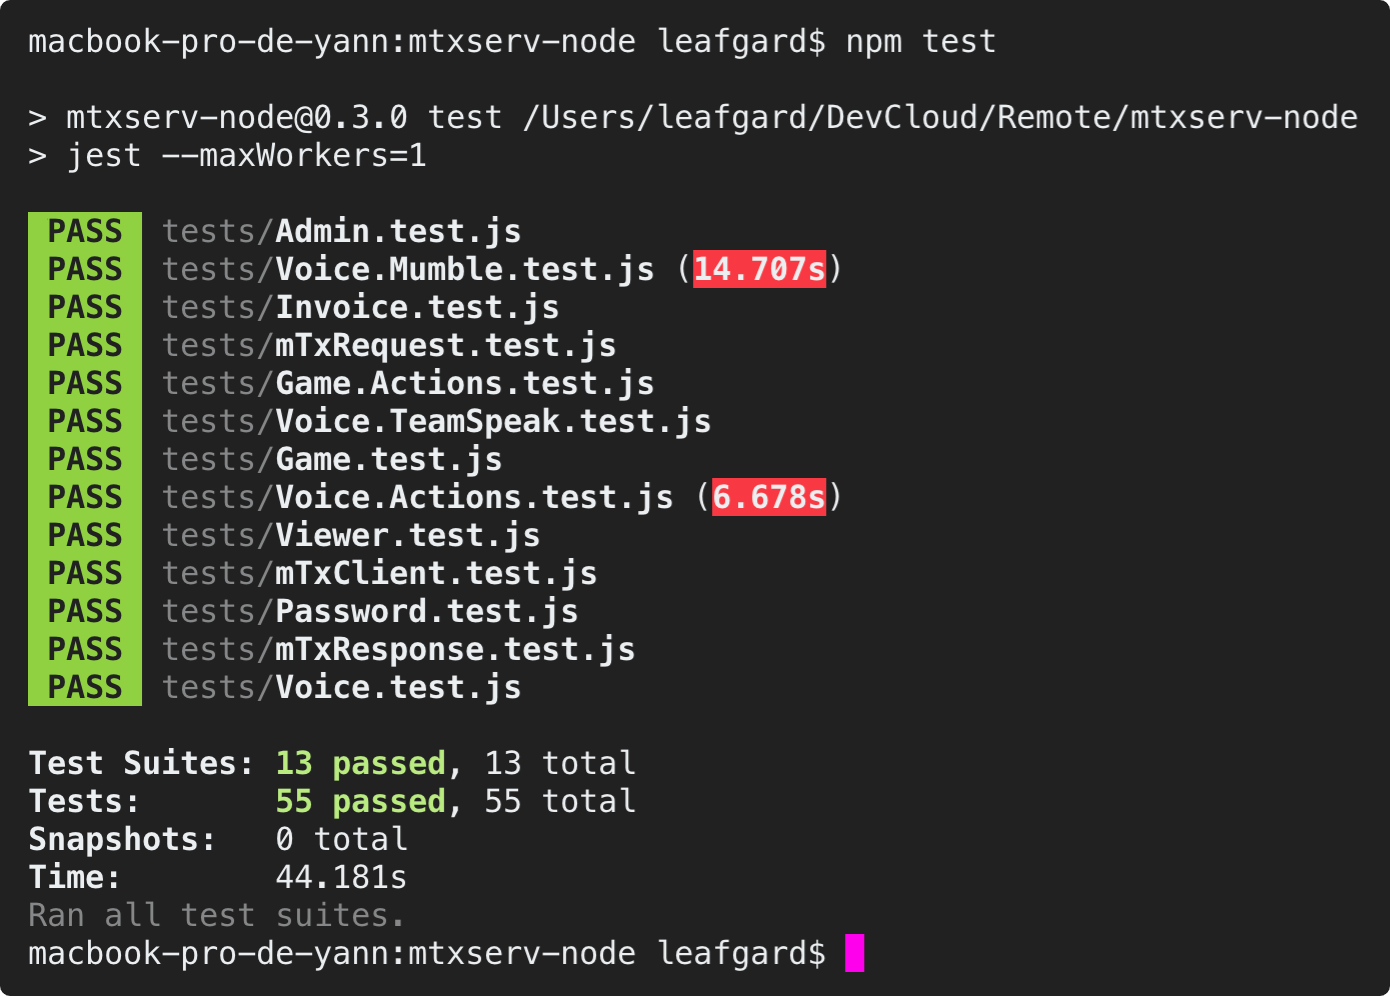
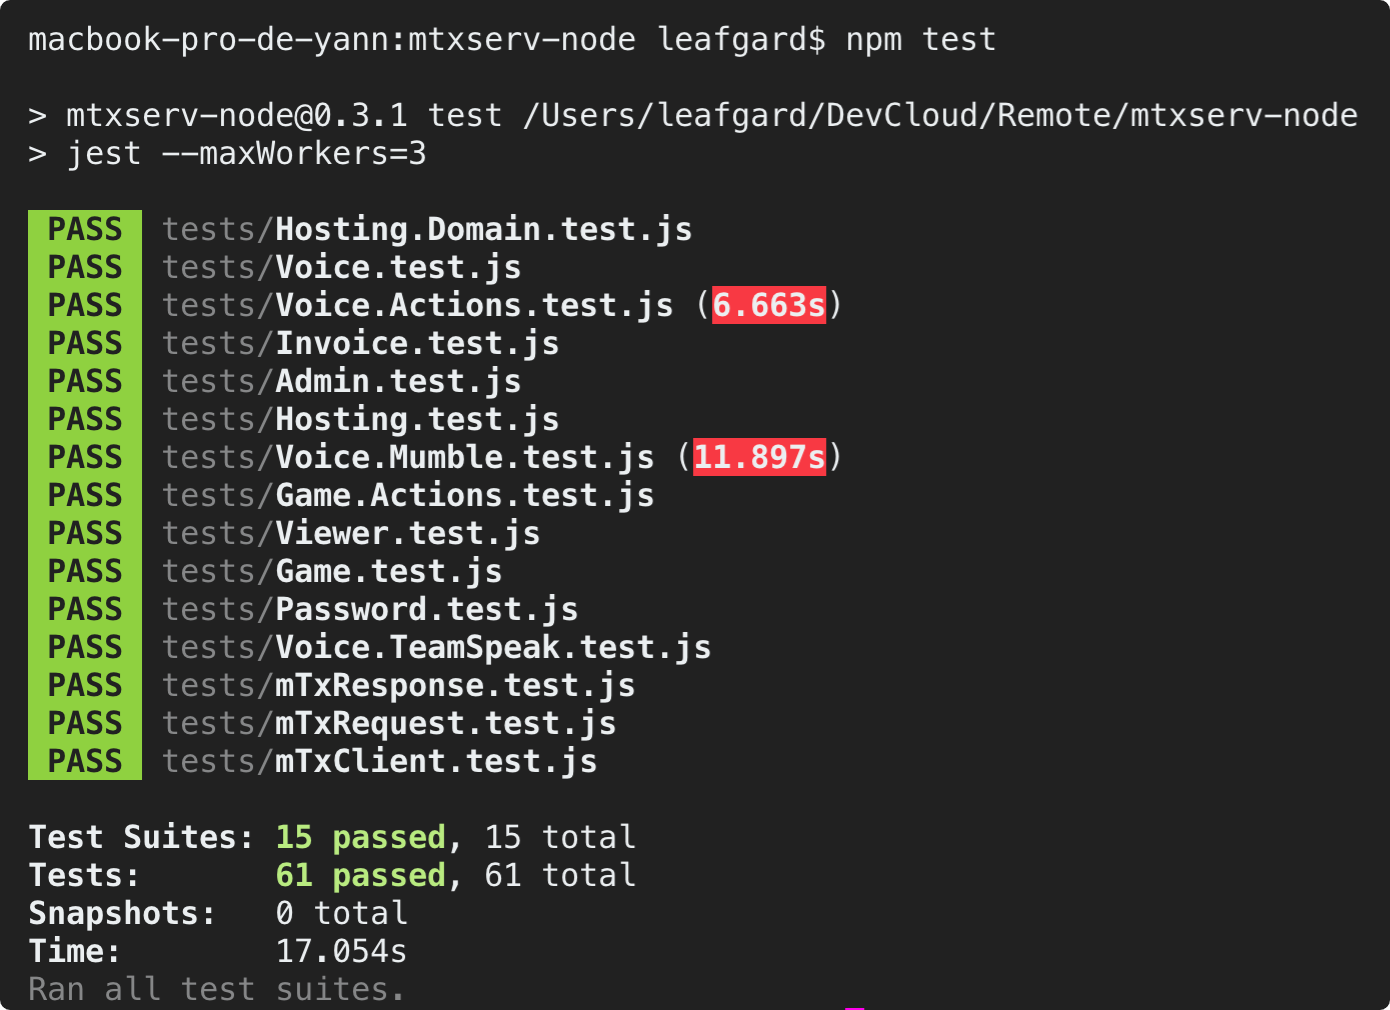
Added Hosting & Hosting Domain support with tests

Changed region(s): [[0.0, 0.0934, 0.9899, 1.0], [0.0309, 0.0311, 0.7115, 0.0622], [0.0, 0.0934, 0.0309, 0.1245]]

diff --git a/src/Hosting/index.js b/src/Hosting/index.js
@@ -1,0 +1,68 @@
+/**
+ * mtxserv-node
+ * Node.JS SDK providing easy access to mTxServ's API
+ * @author Yann SEGET <dev@leafgard.fr>
+ */
+
+module.exports = class Hosting {
+
+  /**
+   * Builds the Hosting API module
+   * @param {object} mTxRequest
+   */
+  constructor(mTxRequest) {
+    this.mTxRequest = mTxRequest
+    this.Domain = new ( require('./Domain') )( this.mTxRequest )
+  }
+
+  /**
+   * Returns used disk space
+   * @param {number} iId Invoice's ID
+   * @method GET
+   * @returns {string} Used disk space
+   */
+  getUsedDiskSpace(iId) {
+    return this.mTxRequest.request({
+      method: 'GET',
+      uri: `/hosting/${iId}/disk_used`,
+      statusCodes: [200]
+    })
+  }
+
+  /**
+   * Changes FTP password
+   * @param {number} iId Invoice's ID
+   * @param {string} password New password
+   * @method PUT
+   * @returns {null}
+   */
+  changeFtpPassword(iId, password) {
+    return this.mTxRequest.request({
+      method: 'PUT',
+      uri: `/hosting/${iId}/ftp/password`,
+      json: {
+        password: password
+      },
+      statusCodes: [201, 400]
+    })
+  }
+
+  /**
+   * Changes SQL password
+   * @param {number} iId Invoice's ID
+   * @param {string} password New password
+   * @method PUT
+   * @returns {null}
+   */
+  changeSqlPassword(iId, password) {
+    return this.mTxRequest.request({
+      method: 'PUT',
+      uri: `/hosting/${iId}/ftp/password`,
+      json: {
+        password: password
+      },
+      statusCodes: [201, 400]
+    })
+  }
+
+}

diff --git a/src/Hosting/Domain.js b/src/Hosting/Domain.js
@@ -1,0 +1,63 @@
+/**
+ * mtxserv-node
+ * Node.JS SDK providing easy access to mTxServ's API
+ * @author Yann SEGET <dev@leafgard.fr>
+ */
+
+module.exports = class Domain {
+
+  /**
+   * Builds the Hosting Domain API module
+   * @param {object} mTxRequest
+   */
+  constructor(mTxRequest) {
+    this.mTxRequest = mTxRequest
+  }
+
+  /**
+   * Returns information about domain
+   * @param {number} iId Invoice's ID
+   * @method GET
+   * @returns {object} Informations about domain
+   */
+  getDomain(iId) {
+    return this.mTxRequest.request({
+      method: 'GET',
+      uri: `/hosting/${iId}/domain`,
+      statusCodes: [200]
+    })
+  }
+
+  /**
+   * Deletes custom domain from hosting
+   * @param {number} iId Invoice's ID
+   * @method DELETE
+   * @returns {null}
+   */
+  removeCustomDomain(iId) {
+    return this.mTxRequest.request({
+      method: 'DELETE',
+      uri: `/hosting/${iId}/domain`,
+      statusCodes: [201, 400]
+    })
+  }
+
+  /**
+   * Links custom domain to hosting
+   * @param {number} iId Invoice's ID
+   * @param {string} domain Custom domain to link
+   * @method POST
+   * @returns {null}
+   */
+  addCustomDomain(iId, domain) {
+    return this.mTxRequest.request({
+      method: 'POST',
+      uri: `/hosting/${iId}/domain`,
+      json: {
+        domain: domain
+      },
+      statusCodes: [201, 400]
+    })
+  }
+
+}

diff --git a/tests/Hosting.Domain.test.js b/tests/Hosting.Domain.test.js
@@ -1,0 +1,33 @@
+/**
+ * mtxserv-node
+ * Node.JS SDK providing easy access to mTxServ's API
+ * @author Yann SEGET <dev@leafgard.fr>
+ * 
+ * JEST TEST
+ */
+
+require('dotenv').config()
+
+const mTxClient = require('../src/index').initialize({
+  clientId: process.env.CLIENT_ID,
+  clientSecret: process.env.CLIENT_SECRET,
+  apiToken: process.env.API_KEY
+})
+
+test('Call getDomain() returns object & status 200', () => {
+  let req = mTxClient.Hosting.Domain.getDomain(process.env.W_INVOICE_ID)
+  expect(typeof req.body).toBe('object')
+  expect(req.statusCode).toBe(200)
+})
+
+test('Call addCustomDomain() returns object & status 201', () => {
+  let req = mTxClient.Hosting.Domain.addCustomDomain(process.env.W_INVOICE_ID, process.env.W_TOLINK)
+  expect(typeof req.body).toBe('object')
+  expect(req.statusCode).toBe(201)
+})
+
+test('Call removeCustomDomain() returns object & status 201', () => {
+  let req = mTxClient.Hosting.Domain.removeCustomDomain(process.env.W_INVOICE_ID)
+  expect(typeof req.body).toBe('object')
+  expect(req.statusCode).toBe(201)
+})

diff --git a/tests/Hosting.test.js b/tests/Hosting.test.js
@@ -1,0 +1,33 @@
+/**
+ * mtxserv-node
+ * Node.JS SDK providing easy access to mTxServ's API
+ * @author Yann SEGET <dev@leafgard.fr>
+ * 
+ * JEST TEST
+ */
+
+require('dotenv').config()
+
+const mTxClient = require('../src/index').initialize({
+  clientId: process.env.CLIENT_ID,
+  clientSecret: process.env.CLIENT_SECRET,
+  apiToken: process.env.API_KEY
+})
+
+test('Call getUsedDiskSpace() returns string & status 200', () => {
+  let req = mTxClient.Hosting.getUsedDiskSpace(process.env.W_INVOICE_ID)
+  expect(typeof req.body).toBe('string')
+  expect(req.statusCode).toBe(200)
+})
+
+test('Call changeFtpPassword() returns status 201', () => {
+  let req = mTxClient.Hosting.changeFtpPassword(process.env.W_INVOICE_ID, 'password')
+  expect(req.body).toBe(null)
+  expect(req.statusCode).toBe(201)
+})
+
+test('Call changeSqlPassword() returns status 201', () => {
+  let req = mTxClient.Hosting.changeSqlPassword(process.env.W_INVOICE_ID, 'password')
+  expect(req.body).toBe(null)
+  expect(req.statusCode).toBe(201)
+})

diff --git a/src/index.js b/src/index.js
@@ -26,6 +26,7 @@ module.exports = class mTxServClient {
     this.Viewer = new ( require('./Viewer') )( this.mTxRequest )
     this.Admin = new ( require('./Admin') )( this.mTxRequest )
     this.Game = new ( require('./Game') )( this.mTxRequest )
+    this.Hosting = new ( require('./Hosting') )( this.mTxRequest )
   }
 
   /**
